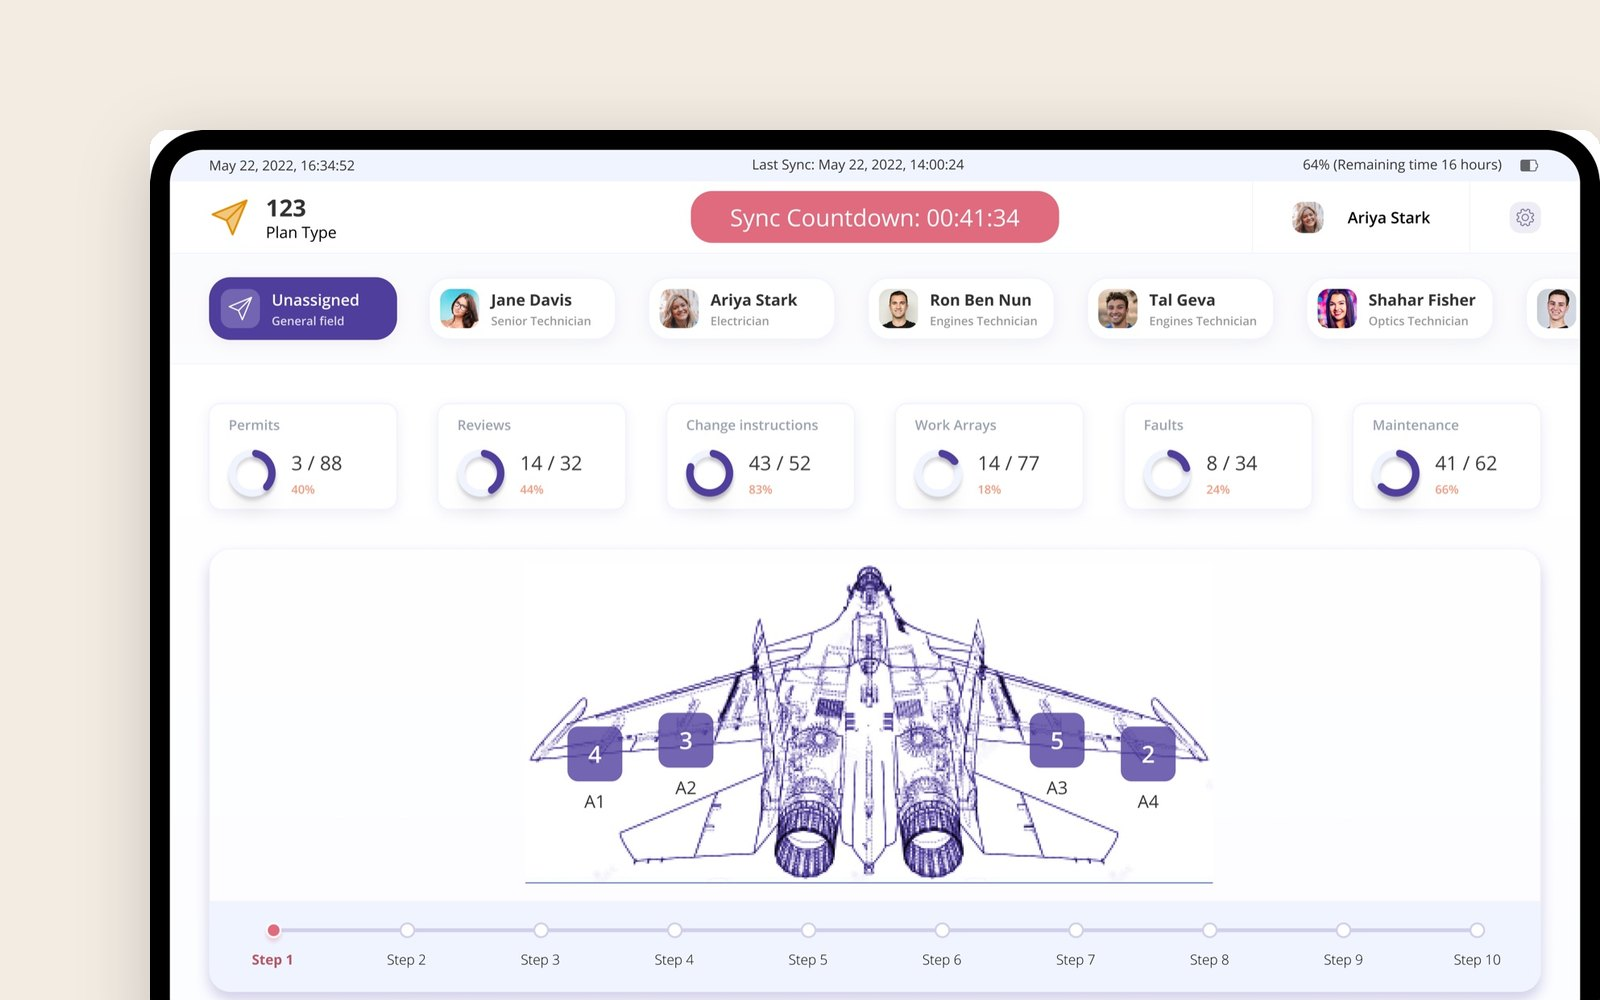
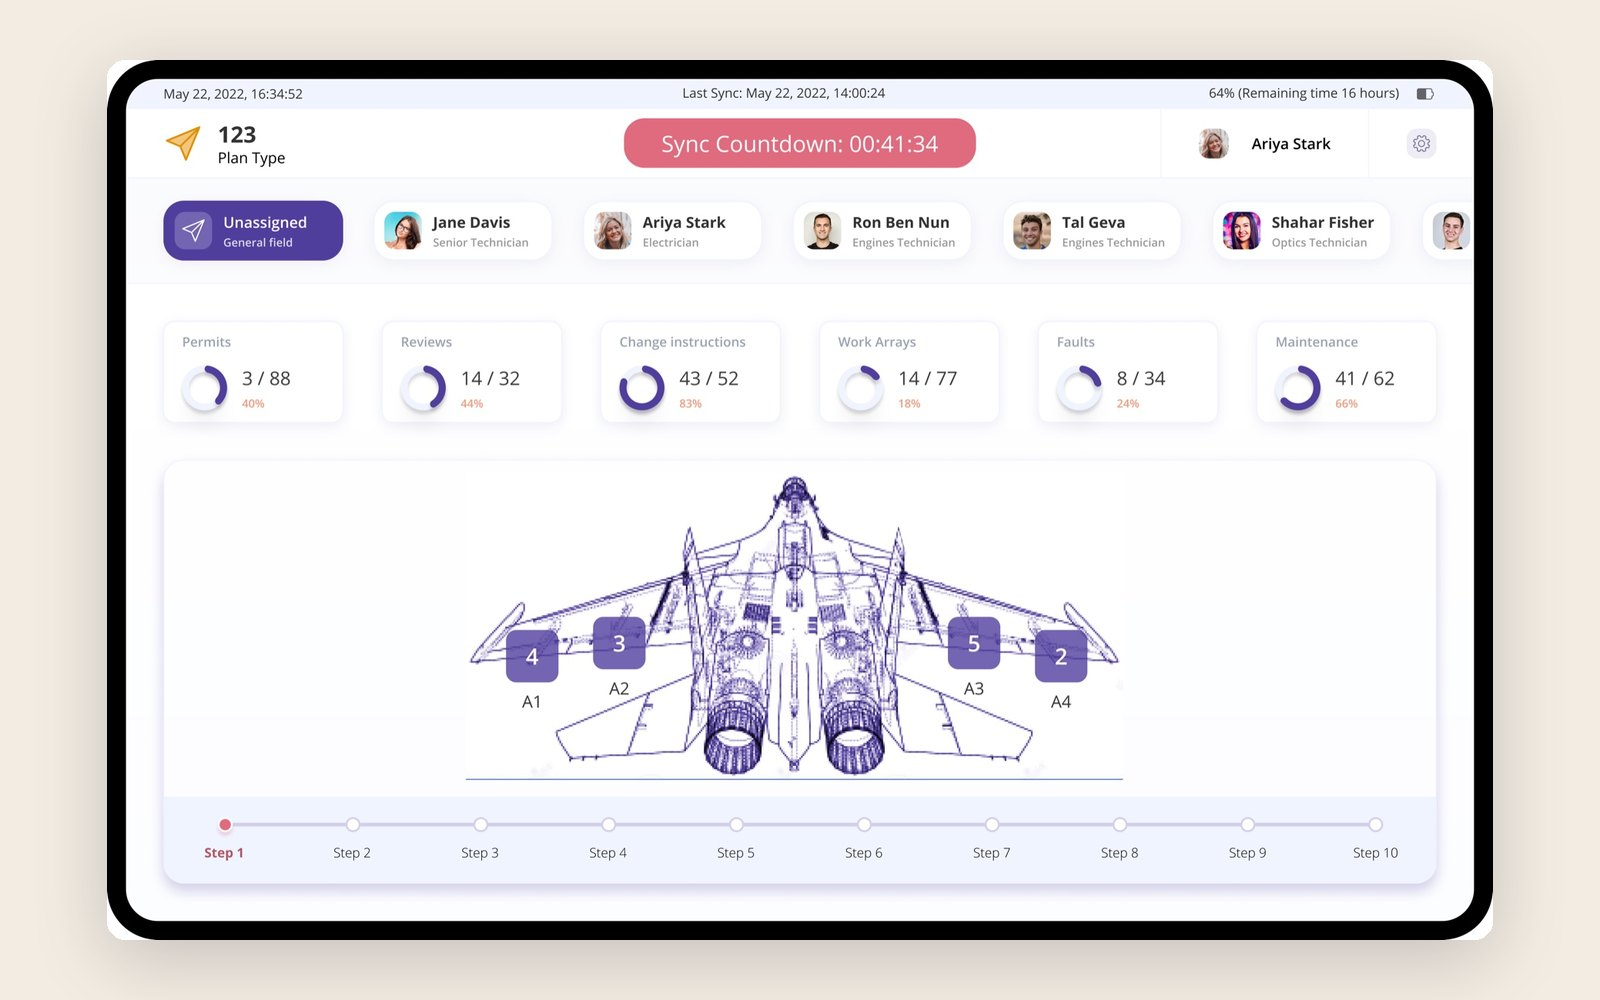
Widen and centre the reading column; covers show whole screens
The text sat in a left-pinned 34rem column, leaving half of every page
empty. It is now a centred 46rem column at a slightly larger size, with
screens running the full width. Covers show each screen whole instead of
a crop, which read as a broken fragment at card size, and paired screens
stack so dense UI stays legible.

diff --git a/css/site.css b/css/site.css
@@ -361,3 +361,31 @@ figure.shot figcaption { max-width: 40rem; }
 /* The project's cover, under the title and facts, so a case study opens on the work. */
 .case-cover { margin: var(--s-4) 0 0; border-radius: 14px; overflow: hidden; background: var(--ground-sunk); }
 .case-cover img { width: 100%; }
+
+/* --- layout v2 ----------------------------------------------------
+   One centred reading column, wide enough to fill the page at desktop
+   sizes, with screens running the full width of the shell. The earlier
+   left-pinned 34rem column left half of every page empty. */
+
+:root { --measure: 46rem; --t-body: 1.125rem; }
+
+.prose { max-width: var(--measure); margin-inline: auto; }
+.lead  { max-width: var(--measure); }
+
+.case-head > .eyebrow,
+.case-head > h1,
+.case-head > .lead { max-width: var(--measure); margin-inline: auto; }
+.case-head h1 { max-width: var(--measure); }
+
+figure { max-width: 64rem; margin-inline: auto; }
+figure.shot { max-width: none; margin-inline: 0; }
+figure.shot figcaption,
+figure figcaption { max-width: var(--measure); margin-inline: auto; }
+.shot-pair { max-width: none; }
+.shot-pair figure.shot figcaption { max-width: none; }
+
+.hero h1 { max-width: 24ch; }
+.hero .lead { max-width: 52rem; }
+/* Dense enterprise screens need the full width to be legible, so pairs stack. */
+@media (min-width: 46rem) { .shot-pair { grid-template-columns: 1fr; gap: var(--s-5); } }
+.shot-pair figure.shot figcaption { max-width: var(--measure); margin-inline: auto; }

diff --git a/cv.html b/cv.html
@@ -25,7 +25,7 @@
 <link rel="preconnect" href="https://fonts.googleapis.com">
 <link rel="preconnect" href="https://fonts.gstatic.com" crossorigin>
 <link rel="stylesheet" href="https://fonts.googleapis.com/css2?family=Inter:wght@400;500;620&display=swap">
-<link rel="stylesheet" href="css/site.css?v=2">
+<link rel="stylesheet" href="css/site.css?v=3">
 <style>
   /* Single column, no graphics, nothing an ATS parser can trip over.
      The downloadable version stays a separate artifact; this is the web copy. */

diff --git a/work/aircraft-maintenance.html b/work/aircraft-maintenance.html
@@ -25,7 +25,7 @@
 <link rel="preconnect" href="https://fonts.googleapis.com">
 <link rel="preconnect" href="https://fonts.gstatic.com" crossorigin>
 <link rel="stylesheet" href="https://fonts.googleapis.com/css2?family=Inter:wght@400;500;620&display=swap">
-<link rel="stylesheet" href="../css/site.css?v=2">
+<link rel="stylesheet" href="../css/site.css?v=3">
 </head>
 <body>
 <a class="skip" href="#main">Skip to content</a>

diff --git a/work/founding-a-design-function.html b/work/founding-a-design-function.html
@@ -25,7 +25,7 @@
 <link rel="preconnect" href="https://fonts.googleapis.com">
 <link rel="preconnect" href="https://fonts.gstatic.com" crossorigin>
 <link rel="stylesheet" href="https://fonts.googleapis.com/css2?family=Inter:wght@400;500;620&display=swap">
-<link rel="stylesheet" href="../css/site.css?v=2">
+<link rel="stylesheet" href="../css/site.css?v=3">
 </head>
 <body>
 <a class="skip" href="#main">Skip to content</a>

diff --git a/work/real-time-classification.html b/work/real-time-classification.html
@@ -25,7 +25,7 @@
 <link rel="preconnect" href="https://fonts.googleapis.com">
 <link rel="preconnect" href="https://fonts.gstatic.com" crossorigin>
 <link rel="stylesheet" href="https://fonts.googleapis.com/css2?family=Inter:wght@400;500;620&display=swap">
-<link rel="stylesheet" href="../css/site.css?v=2">
+<link rel="stylesheet" href="../css/site.css?v=3">
 </head>
 <body>
 <a class="skip" href="#main">Skip to content</a>

diff --git a/work/service-reply-email.html b/work/service-reply-email.html
@@ -25,7 +25,7 @@
 <link rel="preconnect" href="https://fonts.googleapis.com">
 <link rel="preconnect" href="https://fonts.gstatic.com" crossorigin>
 <link rel="stylesheet" href="https://fonts.googleapis.com/css2?family=Inter:wght@400;500;620&display=swap">
-<link rel="stylesheet" href="../css/site.css?v=2">
+<link rel="stylesheet" href="../css/site.css?v=3">
 </head>
 <body>
 <a class="skip" href="#main">Skip to content</a>

diff --git a/404.html b/404.html
@@ -11,7 +11,7 @@
 <link rel="preconnect" href="https://fonts.googleapis.com">
 <link rel="preconnect" href="https://fonts.gstatic.com" crossorigin>
 <link rel="stylesheet" href="https://fonts.googleapis.com/css2?family=Inter:wght@400;500;620&display=swap">
-<link rel="stylesheet" href="/css/site.css?v=2">
+<link rel="stylesheet" href="/css/site.css?v=3">
 </head>
 <body>
 <a class="skip" href="#main">Skip to content</a>

diff --git a/about.html b/about.html
@@ -25,7 +25,7 @@
 <link rel="preconnect" href="https://fonts.googleapis.com">
 <link rel="preconnect" href="https://fonts.gstatic.com" crossorigin>
 <link rel="stylesheet" href="https://fonts.googleapis.com/css2?family=Inter:wght@400;500;620&display=swap">
-<link rel="stylesheet" href="css/site.css?v=2">
+<link rel="stylesheet" href="css/site.css?v=3">
 </head>
 <body>
 <a class="skip" href="#main">Skip to content</a>

diff --git a/index.html b/index.html
@@ -25,7 +25,7 @@
 <link rel="preconnect" href="https://fonts.googleapis.com">
 <link rel="preconnect" href="https://fonts.gstatic.com" crossorigin>
 <link rel="stylesheet" href="https://fonts.googleapis.com/css2?family=Inter:wght@400;500;620&display=swap">
-<link rel="stylesheet" href="css/site.css?v=2">
+<link rel="stylesheet" href="css/site.css?v=3">
 </head>
 <body>
 <a class="skip" href="#main">Skip to content</a>

diff --git a/tools/prepare_images.py b/tools/prepare_images.py
@@ -62,7 +62,7 @@ def cover(src, box, bg, out, inset=(150, 130), width=1450, bleed=True):
         x, y = inset
         scale = max(width / shot.width, (COVER_H - y + 40) / shot.height)
     else:
-        scale = min(1300 / shot.width, 820 / shot.height)
+        scale = min(1440 / shot.width, 880 / shot.height)
     shot = shot.resize((round(shot.width * scale), round(shot.height * scale)), Image.LANCZOS)
     if not bleed:
         x, y = (COVER_W - shot.width) // 2, (COVER_H - shot.height) // 2
@@ -107,14 +107,13 @@ SAND = (242, 236, 226)
 SAGE = (228, 237, 230)
 
 COVERS = [
-    # slug, source, crop box, tint
-    ("real-time-classification", "1790758226522__19_-_Config_Rec9ord_Page_-_Models_&_Training.png",
-     (0.14, 0.305, 0.99, 0.83), LAVENDER),
-    ("service-reply-email", "1790246598569__CSR_5_-_manage_sources.png",
-     (0.185, 0.075, 0.83, 0.79), MIST),
+    # slug, source, crop box, tint, bleed. Whole screens, centred: a crop of a
+    # dense enterprise screen reads as a broken fragment at card size.
+    ("real-time-classification", "1790758224692__11_-_Modal__Step_4.png", (0, 0, 1, 1), LAVENDER, False),
+    ("service-reply-email", "1790246615630__CSR_4_-_draft_generated.pdf", (0, 0, 1, 1), MIST, False),
     ("aircraft-maintenance", ROOT / "assets/aircraft-maintenance/07-dK68mPKG46idV92eG6J9X7.jpg",
-     (0.0, 0.0, 1.0, 1.0), SAND),
-    ("founding-a-design-function", "aerial-defense-ellipses.svg", (0.0, 0.0, 1.0, 1.0), SAGE, False),
+     (0, 0, 1, 1), SAND, False),
+    ("founding-a-design-function", "aerial-defense-ellipses.svg", (0, 0, 1, 1), SAGE, False),
 ]
 
 SHOTS = [
